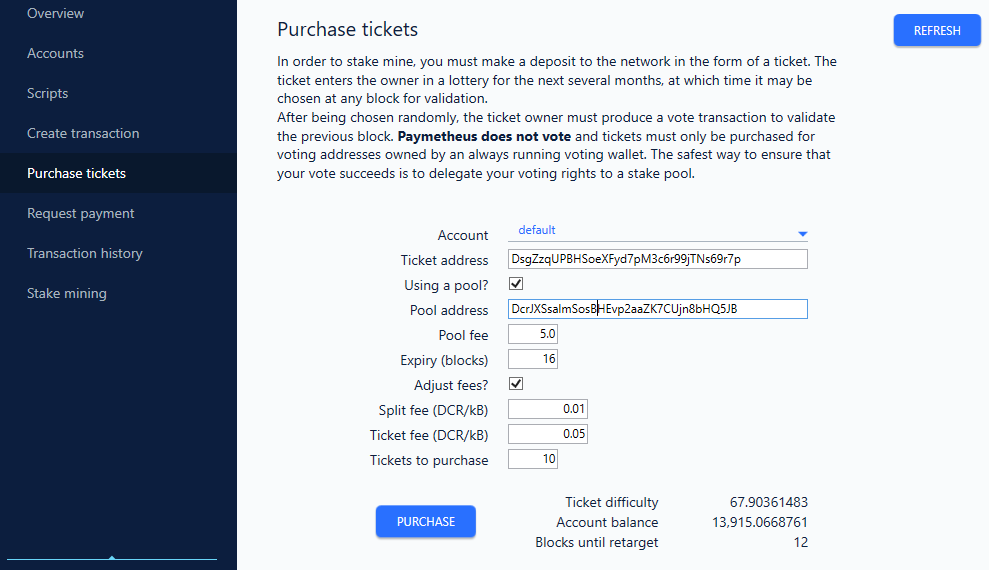
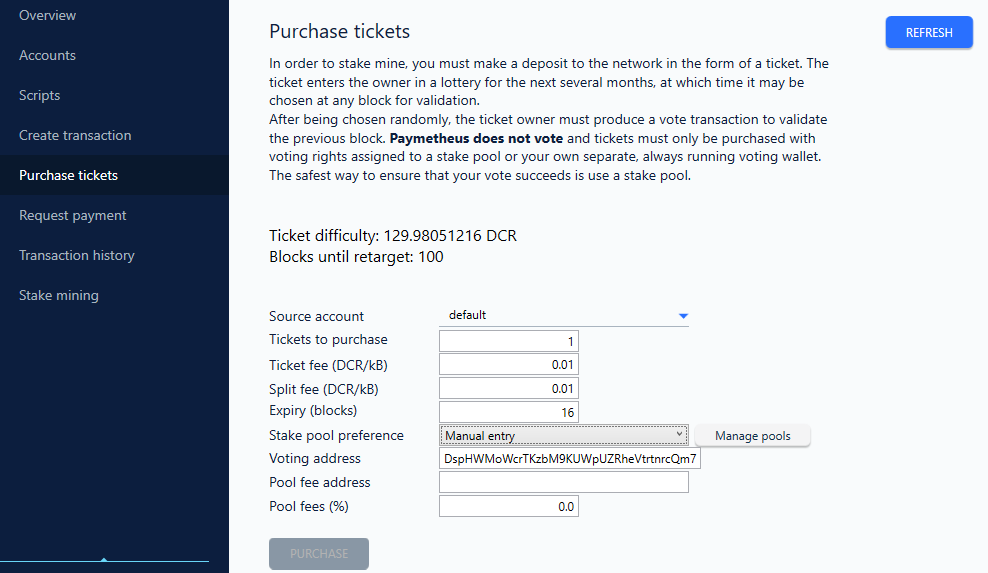
Updated Paymetheus guide with new features found in 0.8.0

diff --git a/docs/getting-started/user-guides/using-paymetheus.md b/docs/getting-started/user-guides/using-paymetheus.md
@@ -13,7 +13,8 @@ of recent account activity.
 
 
 ## **Accounts  ** ##
-The accounts tab shows you the accounts in your wallet and allows you to add new ones. Accounts in Decred work just like bank accounts. 
+The accounts tab shows you the accounts in your wallet and allows you to add new ones.
+Accounts in Decred work just like bank accounts. 
 They allow you to keep seperate records of your DCR. This feature is most 
 useful for those who run businesses and wish to keep seperate accounts for 
 tax records for example. Transferring DCR across accounts will create a 
@@ -25,9 +26,9 @@ transaction on the blockchain.
 
 
 ## **Scripts** ##
-Currently only used for PoS mining in a pool. If you sign up for a pool, 
-you will be asked to import a script. This is where you will add it.
-See the Purchase Tickets section below for more information.  
+Currently only used for PoS mining in a pool. As of version 0.8.0
+script setup has been automated. See the Purchase Tickets section below for more information.
+It will be used for more advanced features in the future.  
 
 ![Scripts tab](/img/Paymetheus-import-script.png)  
 
@@ -81,36 +82,39 @@ the outcome of any vote. By spreading tickets around pools, it makes the network
 
 ![Creating voting account](/img/Paymetheus-create-voting-account.png)  
 
-To generate a public key address, use the "Request Payment" view to generate a
-new address for the voting account.  The pubkey address (below the shorter P2PKH
-address) must be given to the pool.
+There's a fair bit of information here, so we'll go through each of the options.
 
-<i class="fa fa-exclamation-triangle"></i> **On mainnet, the address will begin with the letters Ds.**
+* **Ticket difficulty** - The current price of a ticket.
+* **Blocks until retarget** - When this reaches 0, a new ticket price is calculated.
+* **Source account** - This is the account that will purchase the tickets and receive the reward.
+* **Tickets to purchase** - The number of tickets to purchase.
+* **Ticket fee (DCR/kB)** - Tickets are entered into the voting pool by order of their fee. In times of demand,
+                        you will need to increase this value in order to have your tickets accepted.
+						You can view current ticket fees [here](https://www.dcrstats.com).
+* **Split fee (DCR/kB)** - Sometimes your wallet will need to use multiple transactions to buy tickets. This can
+                       be left at 0.01. It does not affect your chances of buying tickets or voting with them.
+* **Expiry (blocks)** - Often ticket fees will increase during a window and you may be stopped out by higher fees. By setting an
+					expiry, tickets that are not mined in the given number of blocks are cancelled so you can try again
+					with higher fees if you wish. If this is empty, they will not expire until the end of the window.
+* **Stake pool preference** - Automate setup with PoS pools. See below for more information.
+* **Voting address** - The Decred address that will do the voting. Solo and custom pool miners only.
+* **Pool fee address** - For those using a custom pool.
+* **Pool fees (%)** - For those using a custom pool.
 
-![Generate pubkey address](/img/Paymetheus-generate-pubkey-address.png)  
+![Purchasing tickets](/img/Paymetheus-ticket-purchasing.png)  
 
-<i class="fa fa-exclamation-triangle"></i> **On mainnet, the public key address will begin with the letters Dk.**
+To easily set up ticket purchasing for a stake pool, click the 'Manage pools button'. If you haven't already,
+you'll need to register with a stake pool (see above). Once you've registerd log in and look for your API key and copy it.
+Select the pool you just registered with from the drop down. Paste the key into the 'API key' box, then click outside the
+box to update it. You should see a bunch of letters and numbers appear in the bottom box. Click 'Save'. You can now purchase
+tickets by clicking the 'Purchase' button!
 
-Copy and paste the public key address into the stake pool's submit address form
-and click the submit button.  Your multisig script and P2SH address will be
-generated and you will be redirected to the tickets page.
-
-Next, import the pool's 1-of-2 multisignature script (on the Scripts tab).  This allows the funds to
-be recovered in case of pool failure.
-
-![Importing a script](/img/Paymetheus-import-script.png)  
-
-Finally, tickets can be purchased.  Select the "Using a pool?" checkbox and copy
-the values from the pool.  When all fields are set and if there is enough input
-value is available, the purchase button will become enabled and tickets may be
-purchased.
-
+![Manage stake pools](/img/Paymetheus-manage-stake-pool.png)
+			
 NOTE: While you can purchase tickets using Paymetheus, it cannot vote for you so you must either use a pool
 or run your own voting wallet which needs to be online 24/7. If you would prefer to solo mine,
 check the [Getting Started](/getting-started/overview.md) and [PoS Mining](/mining/proof-of-stake.ms)
 guides for more information.
-
-![Purchasing tickets](/img/Paymetheus-ticket-purchasing.png)  
 
 ---
 

diff --git a/docs/getting-started/user-guides/paymetheus.md b/docs/getting-started/user-guides/paymetheus.md
@@ -31,6 +31,7 @@ We're just going to use a local one here so just press Continue.
 You will now have the option to create a new wallet or restore a wallet from a seed. If you're reading this, you're probably new and don't 
 already have a wallet so let's create a new one. If you click restore, you will be asked to enter your seed words instead of being given a new seed.
 The rest of the process is the same. Click "Create a new wallet". You will see the following screen:  
+
 ![Paymetheus wallet creation screen](/img/Paymetheus-seed-window.png)  
 
 <i class="fa fa-exclamation-triangle"></i> **STOP HERE!!! DO NOT CLICK CONTINUE!**  
